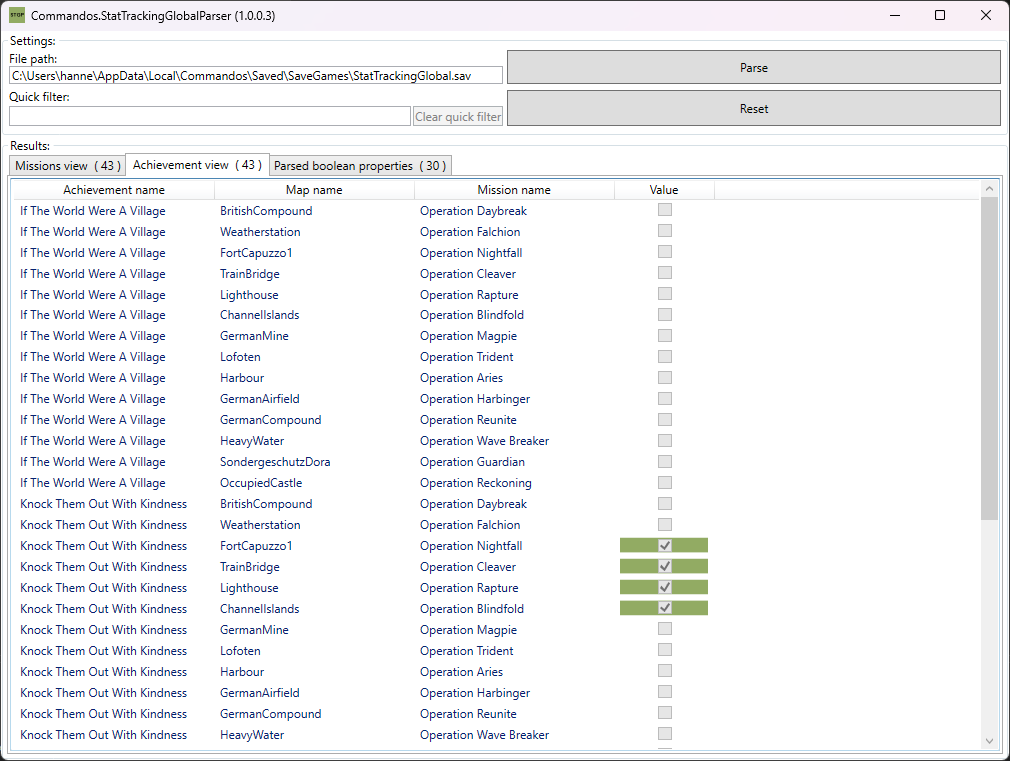
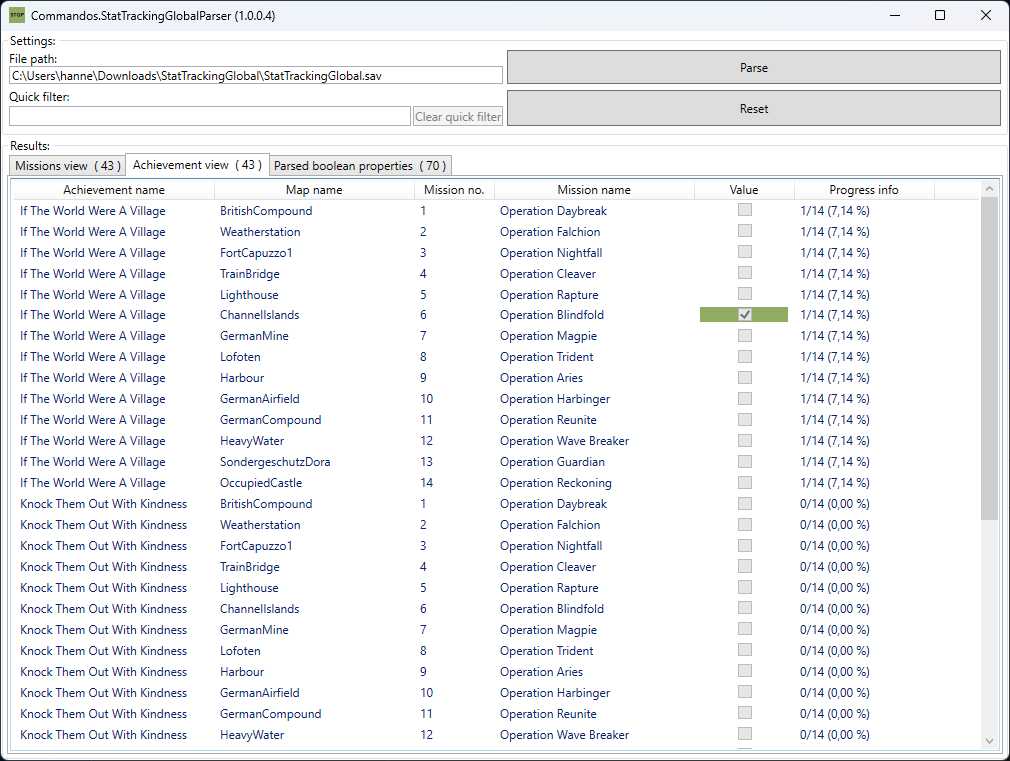
- Simpllified model usage - Added progress info for each achievement - Some code cleanup

Changed region(s): [[0.399, 0.2418, 0.8901, 0.9974], [0.0921, 0.0907, 0.4604, 0.1209], [0.0, 0.9974, 0.0307, 1.0]]

diff --git a/StatTrackingGlobalParser/Views/WindowMain.xaml b/StatTrackingGlobalParser/Views/WindowMain.xaml
@@ -81,10 +81,10 @@
 
                         <ListView.View>
                             <GridView>
+                                <GridViewColumn Header="Mission no." Width="80" DisplayMemberBinding="{Binding MissionNo}" />
                                 <GridViewColumn Header="Mission name" Width="200" DisplayMemberBinding="{Binding MissionName}" />
                                 <GridViewColumn Header="Map name" Width="200" DisplayMemberBinding="{Binding MapName}" />
-                                <GridViewColumn Header="Achievement name" Width="200" DisplayMemberBinding="{Binding AchievementName}">
-                                </GridViewColumn>
+                                <GridViewColumn Header="Achievement name" Width="200" DisplayMemberBinding="{Binding AchievementName}" />
                                 <GridViewColumn Header="Value" Width="100" x:Name="CheckBoxColumnMissions">
                                     <GridViewColumn.CellTemplate>
                                         <DataTemplate>
@@ -93,7 +93,7 @@
                                                     <Style TargetType="Grid">
                                                         <Style.Triggers>
                                                             <DataTrigger Binding="{Binding Value}" Value="True">
-                                                                <Setter Property="Background" Value="#92ab63" />
+                                                                <Setter Property="Background" Value="{StaticResource GreenColorBrush}" />
                                                             </DataTrigger>
                                                         </Style.Triggers>
                                                     </Style>
@@ -104,6 +104,7 @@
                                         </DataTemplate>
                                     </GridViewColumn.CellTemplate>
                                 </GridViewColumn>
+                                <GridViewColumn Header="Progress info" Width="140" DisplayMemberBinding="{Binding ProgressInfo}" />
                             </GridView>
                         </ListView.View>
                     </ListView>
@@ -133,6 +134,7 @@
                             <GridView>
                                 <GridViewColumn Header="Achievement name" Width="200" DisplayMemberBinding="{Binding AchievementName}" />
                                 <GridViewColumn Header="Map name" Width="200" DisplayMemberBinding="{Binding MapName}" />
+                                <GridViewColumn Header="Mission no." Width="80" DisplayMemberBinding="{Binding MissionNo}" />
                                 <GridViewColumn Header="Mission name" Width="200" DisplayMemberBinding="{Binding MissionName}" />
                                 <GridViewColumn Header="Value" Width="100" x:Name="CheckBoxColumnAchievements">
                                     <GridViewColumn.CellTemplate>
@@ -142,7 +144,7 @@
                                                     <Style TargetType="Grid">
                                                         <Style.Triggers>
                                                             <DataTrigger Binding="{Binding Value}" Value="True">
-                                                                <Setter Property="Background" Value="#92ab63" />
+                                                                <Setter Property="Background" Value="{StaticResource GreenColorBrush}" />
                                                             </DataTrigger>
                                                         </Style.Triggers>
                                                     </Style>
@@ -153,6 +155,7 @@
                                         </DataTemplate>
                                     </GridViewColumn.CellTemplate>
                                 </GridViewColumn>
+                                <GridViewColumn Header="Progress info" Width="140" DisplayMemberBinding="{Binding ProgressInfo}" />
                             </GridView>
                         </ListView.View>
                     </ListView>
@@ -170,7 +173,7 @@
                     <ListView ItemsSource="{Binding BoolPropertiesView}">
                         <ListView.View>
                             <GridView>
-                                <GridViewColumn Header="Map" Width="100" DisplayMemberBinding="{Binding Map}" />
+                                <GridViewColumn Header="Map no." Width="100" DisplayMemberBinding="{Binding MapNo}" />
                                 <GridViewColumn Header="Map name" Width="200" DisplayMemberBinding="{Binding MapName}" />
                                 <GridViewColumn Header="Start index" Width="100" DisplayMemberBinding="{Binding StartIndex}" />
                                 <GridViewColumn Header="Variable name" Width="200" DisplayMemberBinding="{Binding VariableName}" />
@@ -183,12 +186,12 @@
                                                     <Style TargetType="Grid">
                                                         <Style.Triggers>
                                                             <DataTrigger Binding="{Binding Value}" Value="True">
-                                                                <Setter Property="Background" Value="#92ab63" />
+                                                                <Setter Property="Background" Value="{StaticResource GreenColorBrush}" />
                                                             </DataTrigger>
                                                         </Style.Triggers>
                                                     </Style>
                                                 </Grid.Style>
-                                                
+
                                                 <CheckBox IsEnabled="False" IsChecked="{Binding Value}" HorizontalAlignment="Center" Margin="-10,0,0,0" />
                                             </Grid>
                                         </DataTemplate>

diff --git a/StatTrackingGlobalParser/App.xaml b/StatTrackingGlobalParser/App.xaml
@@ -4,6 +4,9 @@
              xmlns:local="clr-namespace:StatTrackingGlobalParser"
              StartupUri="Views/WindowMain.xaml">
     <Application.Resources>
-         
+
+        <Color x:Key="GreenColor">#92AB63</Color>
+        <SolidColorBrush x:Key="GreenColorBrush" Color="{StaticResource GreenColor}" />
+
     </Application.Resources>
 </Application>

diff --git a/StatTrackingGlobalParser/ViewModels/VmWindowMain.cs b/StatTrackingGlobalParser/ViewModels/VmWindowMain.cs
@@ -1,6 +1,5 @@
 using CommunityToolkit.Mvvm.ComponentModel;
 using CommunityToolkit.Mvvm.Input;
-using StatTrackingGlobalParser.Interfaces;
 using StatTrackingGlobalParser.Models;
 using StatTrackingGlobalParser.Utilities;
 using System.Collections.ObjectModel;
@@ -55,13 +54,13 @@ public partial class VmWindowMain : ObservableObject
     private ICollectionView? _boolPropertiesView;
 
     [ObservableProperty]
-    private ObservableCollection<AchievementModel>? _achievements = [];
+    private ObservableCollection<AchievementMissionModel>? _achievements = [];
 
     [ObservableProperty]
     private ICollectionView? _achievementsView;
 
     [ObservableProperty]
-    private ObservableCollection<MissionModel>? _missions = [];
+    private ObservableCollection<AchievementMissionModel>? _missions = [];
 
     [ObservableProperty]
     private ICollectionView? _missionsView;
@@ -212,7 +211,7 @@ public partial class VmWindowMain : ObservableObject
 
             var boolPropertyModel = new BoolPropertyModel()
             {
-                Map = _currentParserMap,
+                MapNo = _currentParserMap,
                 MapName = _currentParserMapName,
                 StartIndex = index,
                 VariableName = variableName,
@@ -226,10 +225,16 @@ public partial class VmWindowMain : ObservableObject
 
     private void PopulateAchievements()
     {
+        var achievements = new List<AchievementMissionModel>();
+
         foreach (var achievementNameAchievementToolTipMapping in KnownDataHelper.AchievementNameAchievementToolTipMappings)
         {
+            int missionNo = 0;
+
             foreach (var mapNameMissionNameMapping in KnownDataHelper.MapNameMissionNameMappings)
             {
+                missionNo++;
+
                 // Special achievement only for a single mission
                 if (achievementNameAchievementToolTipMapping.Key == KnownDataHelper.AchievementNameShadowTactics &&
                     mapNameMissionNameMapping.Value != KnownDataHelper.MissionNameOperationReckoning)
@@ -237,25 +242,36 @@ public partial class VmWindowMain : ObservableObject
                     continue;
                 }
 
-                var achievementModel = new AchievementModel
+                var achievementModel = new AchievementMissionModel
                 {
                     AchievementName = achievementNameAchievementToolTipMapping.Key,
                     AchievementToolTip = KnownDataHelper.GetAchievementNameTooltipForAchievementName(achievementNameAchievementToolTipMapping.Key),
                     MapName = mapNameMissionNameMapping.Key,
+                    MissionNo = missionNo,
                     MissionName = mapNameMissionNameMapping.Value
                 };
 
                 EvaluateReachedAchievementValue(achievementModel);
 
-                Achievements?.Add(achievementModel);
+                achievements.Add(achievementModel);
             }
         }
+
+        EvaluateReachedAchievements(achievements);
+
+        Achievements = [.. achievements];
+        AchievementsView = CollectionViewSource.GetDefaultView(Achievements);
     }
 
     private void PopulateMissions()
     {
+        var missions = new List<AchievementMissionModel>();
+        int missionNo = 0;
+
         foreach (var mapNameMissionNameMapping in KnownDataHelper.MapNameMissionNameMappings)
         {
+            missionNo++;
+
             foreach (var achievementNameAchievementToolTipMapping in KnownDataHelper.AchievementNameAchievementToolTipMappings)
             {
                 // Special achievement only for a single mission
@@ -265,57 +281,134 @@ public partial class VmWindowMain : ObservableObject
                     continue;
                 }
 
-                var missionModel = new MissionModel
+                var achievementMissionModel = new AchievementMissionModel
                 {
+                    MissionNo = missionNo,
                     MissionName = mapNameMissionNameMapping.Value,
                     MapName = mapNameMissionNameMapping.Key,
                     AchievementName = achievementNameAchievementToolTipMapping.Key,
                     AchievementToolTip = KnownDataHelper.GetAchievementNameTooltipForAchievementName(achievementNameAchievementToolTipMapping.Key)
                 };
 
-                EvaluateReachedAchievementValue(missionModel);
+                EvaluateReachedAchievementValue(achievementMissionModel);
 
-                Missions?.Add(missionModel);
+                missions.Add(achievementMissionModel);
             }
         }
+
+        EvaluateReachedAchievements(missions);
+
+        Missions = [.. missions];
+        MissionsView = CollectionViewSource.GetDefaultView(Missions);
     }
 
-    private void EvaluateReachedAchievementValue(IModelHelper modelHelper)
+    private void EvaluateReachedAchievementValue(AchievementMissionModel achievementMissionModel)
     {
         BoolPropertyModel? resultBoolPropertyModel;
 
-        switch (modelHelper.GetAchievementName())
+        switch (achievementMissionModel.AchievementName)
         {
+            case KnownDataHelper.AchievementNameIfTheWorldWereAVillage:
+                resultBoolPropertyModel = BoolProperties?.FirstOrDefault(x =>
+                    x.VariableName == KnownDataHelper.AchievementNameIfTheWorldWereAVillageVariableName &&
+                    x.MapName == achievementMissionModel.MapName);
+                achievementMissionModel.Value = resultBoolPropertyModel is not null && resultBoolPropertyModel.Value == true;
+
+                break;
             case KnownDataHelper.AchievementNameKnockThemOutWithKindness:
                 resultBoolPropertyModel = BoolProperties?.FirstOrDefault(x =>
                     x.VariableName == KnownDataHelper.AchievementNameKnockThemOutWithKindnessVariableName &&
-                    x.MapName == modelHelper.GetMapName());
+                    x.MapName == achievementMissionModel.MapName);
+                achievementMissionModel.Value = resultBoolPropertyModel is not null && resultBoolPropertyModel.Value;
 
-                modelHelper.SetValue(resultBoolPropertyModel is not null && resultBoolPropertyModel.Value);
                 break;
             case KnownDataHelper.AchievementNameNoStoneLeftUnkilled:
                 resultBoolPropertyModel = BoolProperties?.FirstOrDefault(x =>
                     x.VariableName == KnownDataHelper.AchievementNameNoStoneLeftUnkilledVariableName &&
-                    x.MapName == modelHelper.GetMapName());
+                    x.MapName == achievementMissionModel.MapName);
+                achievementMissionModel.Value = resultBoolPropertyModel is not null && resultBoolPropertyModel.Value;
 
-                modelHelper.SetValue(resultBoolPropertyModel is not null && resultBoolPropertyModel.Value);
                 break;
             case KnownDataHelper.AchievementNameShadowTactics:
-                resultBoolPropertyModel = BoolProperties?.FirstOrDefault(x => 
+                resultBoolPropertyModel = BoolProperties?.FirstOrDefault(x =>
                     x.VariableName == KnownDataHelper.AchievementNameShadowTacticsVariableName &&
-                    x.MapName == modelHelper.GetMapName());
+                    x.MapName == achievementMissionModel.MapName);
+                achievementMissionModel.Value = resultBoolPropertyModel is not null && resultBoolPropertyModel.Value == false;
 
-                modelHelper.SetValue(resultBoolPropertyModel is not null && resultBoolPropertyModel.Value == false);
-                break;
-            case KnownDataHelper.AchievementNameIfTheWorldWereAVillage:
-                resultBoolPropertyModel = BoolProperties?.FirstOrDefault(x => 
-                    x.VariableName == KnownDataHelper.AchievementNameIfTheWorldWereAVillageVariableName &&
-                    x.MapName == modelHelper.GetMapName());
-
-                modelHelper.SetValue(resultBoolPropertyModel is not null && resultBoolPropertyModel.Value == true);
                 break;
             default:
                 break;
+        }
+    }
+
+    private void EvaluateReachedAchievements(List<AchievementMissionModel> achievementMissionModels)
+    {
+        foreach (var achievementName in KnownDataHelper.AchievementNameAchievementToolTipMappings.Keys)
+        {
+            int reached = 0;
+            string progressInfo = string.Empty;
+
+            switch (achievementName)
+            {
+                case KnownDataHelper.AchievementNameIfTheWorldWereAVillage:
+                    reached = achievementMissionModels.Count(x => x.AchievementName == KnownDataHelper.AchievementNameIfTheWorldWereAVillage && x.Value);
+                    progressInfo = $"{reached}/{KnownDataHelper.MapNameMissionNameMappings.Count} ({Convert.ToDouble(reached) / KnownDataHelper.MapNameMissionNameMappings.Count * 100:0.00} %)";
+
+                    if (reached == KnownDataHelper.MapNameMissionNameMappings.Count)
+                    {
+                        achievementMissionModels.Where(x => x.AchievementName == KnownDataHelper.AchievementNameIfTheWorldWereAVillage).ToList().ForEach(x => { x.ProgressInfo = progressInfo; x.AchievementReached = true; });
+                    }
+                    else
+                    {
+                        achievementMissionModels.Where(x => x.AchievementName == KnownDataHelper.AchievementNameIfTheWorldWereAVillage).ToList().ForEach(x => { x.ProgressInfo = progressInfo; });
+                    }
+
+                    break;
+                case KnownDataHelper.AchievementNameKnockThemOutWithKindness:
+                    reached = achievementMissionModels.Count(x => x.AchievementName == KnownDataHelper.AchievementNameKnockThemOutWithKindness && x.Value);
+                    progressInfo = $"{reached}/{KnownDataHelper.MapNameMissionNameMappings.Count} ({Convert.ToDouble(reached) / KnownDataHelper.MapNameMissionNameMappings.Count * 100:0.00} %)";
+
+                    if (reached == KnownDataHelper.MapNameMissionNameMappings.Count)
+                    {
+                        achievementMissionModels.Where(x => x.AchievementName == KnownDataHelper.AchievementNameKnockThemOutWithKindness).ToList().ForEach(x => { x.ProgressInfo = progressInfo; x.AchievementReached = true; });
+                    }
+                    else
+                    {
+                        achievementMissionModels.Where(x => x.AchievementName == KnownDataHelper.AchievementNameKnockThemOutWithKindness).ToList().ForEach(x => { x.ProgressInfo = progressInfo; });
+                    }
+
+                    break;
+                case KnownDataHelper.AchievementNameNoStoneLeftUnkilled:
+                    reached = achievementMissionModels.Count(x => x.AchievementName == KnownDataHelper.AchievementNameNoStoneLeftUnkilled && x.Value);
+                    progressInfo = $"{reached}/{KnownDataHelper.MapNameMissionNameMappings.Count} ({Convert.ToDouble(reached) / KnownDataHelper.MapNameMissionNameMappings.Count * 100:0.00} %)";
+
+                    if (reached == KnownDataHelper.MapNameMissionNameMappings.Count)
+                    {
+                        achievementMissionModels.Where(x => x.AchievementName == KnownDataHelper.AchievementNameNoStoneLeftUnkilled).ToList().ForEach(x => { x.ProgressInfo = progressInfo; x.AchievementReached = true; });
+                    }
+                    else
+                    {
+                        achievementMissionModels.Where(x => x.AchievementName == KnownDataHelper.AchievementNameNoStoneLeftUnkilled).ToList().ForEach(x => { x.ProgressInfo = progressInfo; });
+                    }
+
+                    break;
+                case KnownDataHelper.AchievementNameShadowTactics:
+                    reached = achievementMissionModels.Count(x => x.AchievementName == KnownDataHelper.AchievementNameShadowTactics && x.Value);
+                    progressInfo = $"{reached}/1 ({Convert.ToDouble(reached) / 1 * 100:0.00} %)";
+
+                    if (reached == 1)
+                    {
+                        achievementMissionModels.Where(x => x.AchievementName == KnownDataHelper.AchievementNameShadowTactics).ToList().ForEach(x => { x.ProgressInfo = progressInfo; x.AchievementReached = true; });
+                    }
+                    else
+                    {
+                        achievementMissionModels.Where(x => x.AchievementName == KnownDataHelper.AchievementNameShadowTactics).ToList().ForEach(x => { x.ProgressInfo = progressInfo; });
+                    }
+
+                    break;
+                default:
+                    break;
+            }
         }
     }
 

diff --git a/StatTrackingGlobalParser/Models/BoolPropertyModel.cs b/StatTrackingGlobalParser/Models/BoolPropertyModel.cs
@@ -1,25 +1,29 @@
 namespace StatTrackingGlobalParser.Models;
 
-public class BoolPropertyModel : BaseModel
+public class BoolPropertyModel
 {
     #region Overrides
 
     public override string ToString()
     {
-        return $"[Map='{Map}', MapName='{MapName}', StartIndex='{StartIndex}', VariableName='{VariableName}', HexValue='{HexValue}', Value='{Value}']";
+        return $"[MapNo='{MapNo}', MapName='{MapName}', StartIndex='{StartIndex}', VariableName='{VariableName}', HexValue='{HexValue}', Value='{Value}']";
     }
 
     #endregion
 
     #region Properties
 
-    public int Map { get; set; }
+    public int MapNo { get; set; }
+
+    public string? MapName { get; set; }
 
     public int StartIndex { get; set; }
 
     public string? VariableName { get; set; }
 
     public string? HexValue { get; set; }
+
+    public bool Value { get; set; }
 
     #endregion
 }

diff --git a/StatTrackingGlobalParser/Models/AchievementMissionModel.cs b/StatTrackingGlobalParser/Models/AchievementMissionModel.cs
@@ -1,0 +1,33 @@
+namespace StatTrackingGlobalParser.Models;
+
+public class AchievementMissionModel
+{
+    #region Overrides
+
+    public override string ToString()
+    {
+        return $"[AchievementName='{AchievementName}', MapName='{MapName}', MissionNo='{MissionNo}', MissionName='{MissionName}', Value='{Value}', ProgressInfo='{ProgressInfo}']";
+    }
+
+    #endregion
+
+    #region Properties
+
+    public string? AchievementName { get; set; }
+
+    public string? MapName { get; set; }
+
+    public int MissionNo { get; set; }
+
+    public string? MissionName { get; set; }
+
+    public bool Value { get; set; }
+
+    public string? ProgressInfo { get; set; }
+
+    public string? AchievementToolTip { get; set; }
+
+    public bool AchievementReached { get; set; }   
+
+    #endregion
+}
